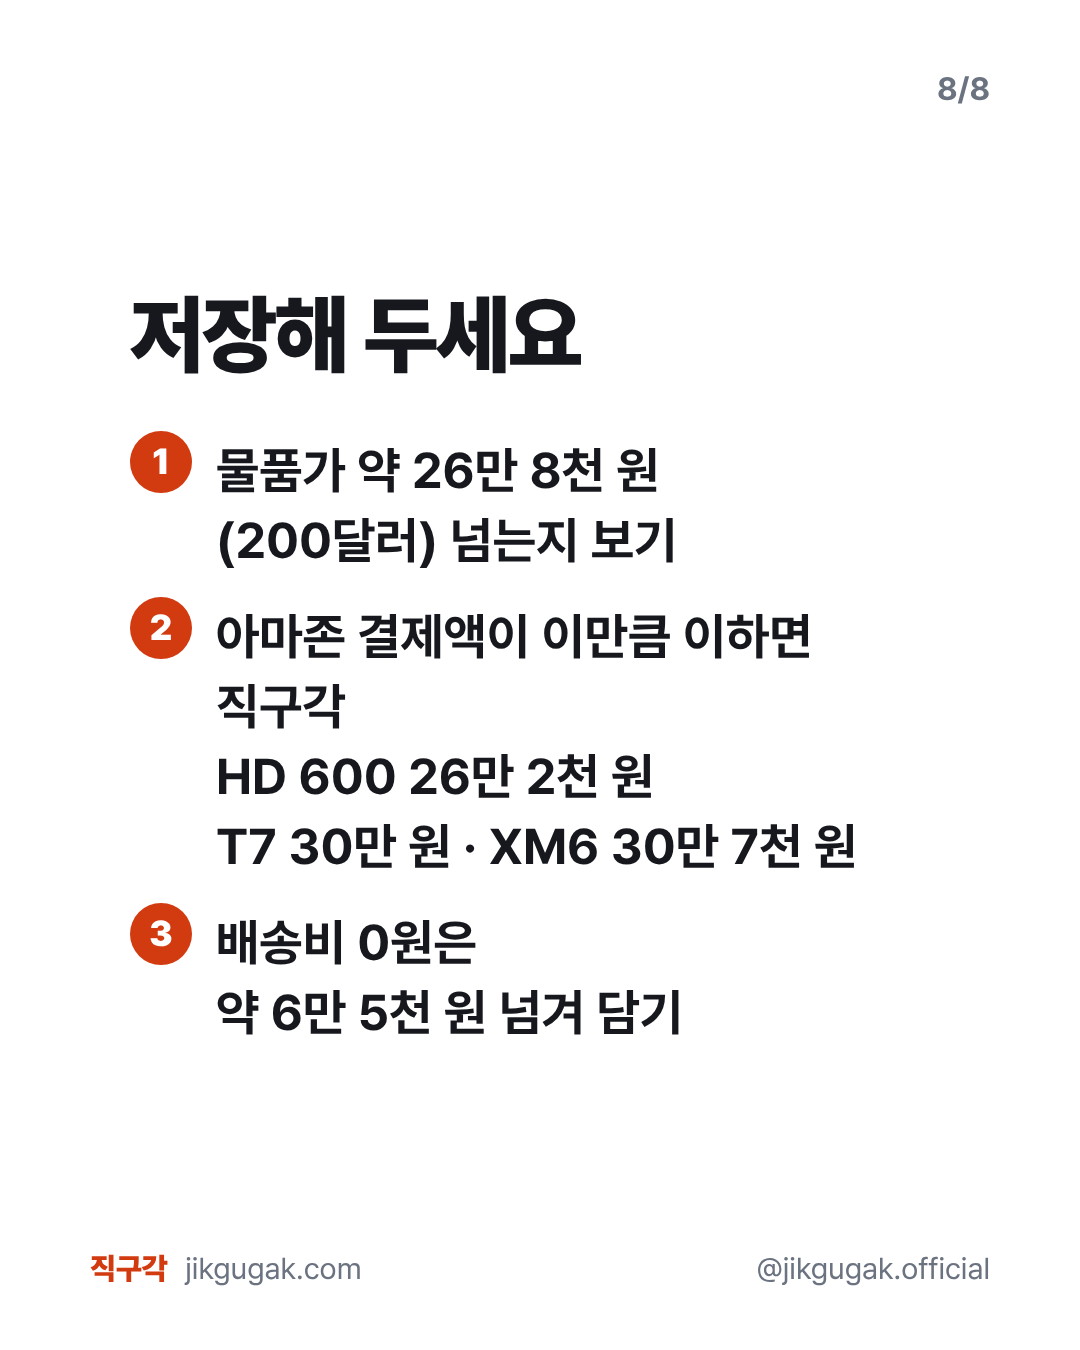
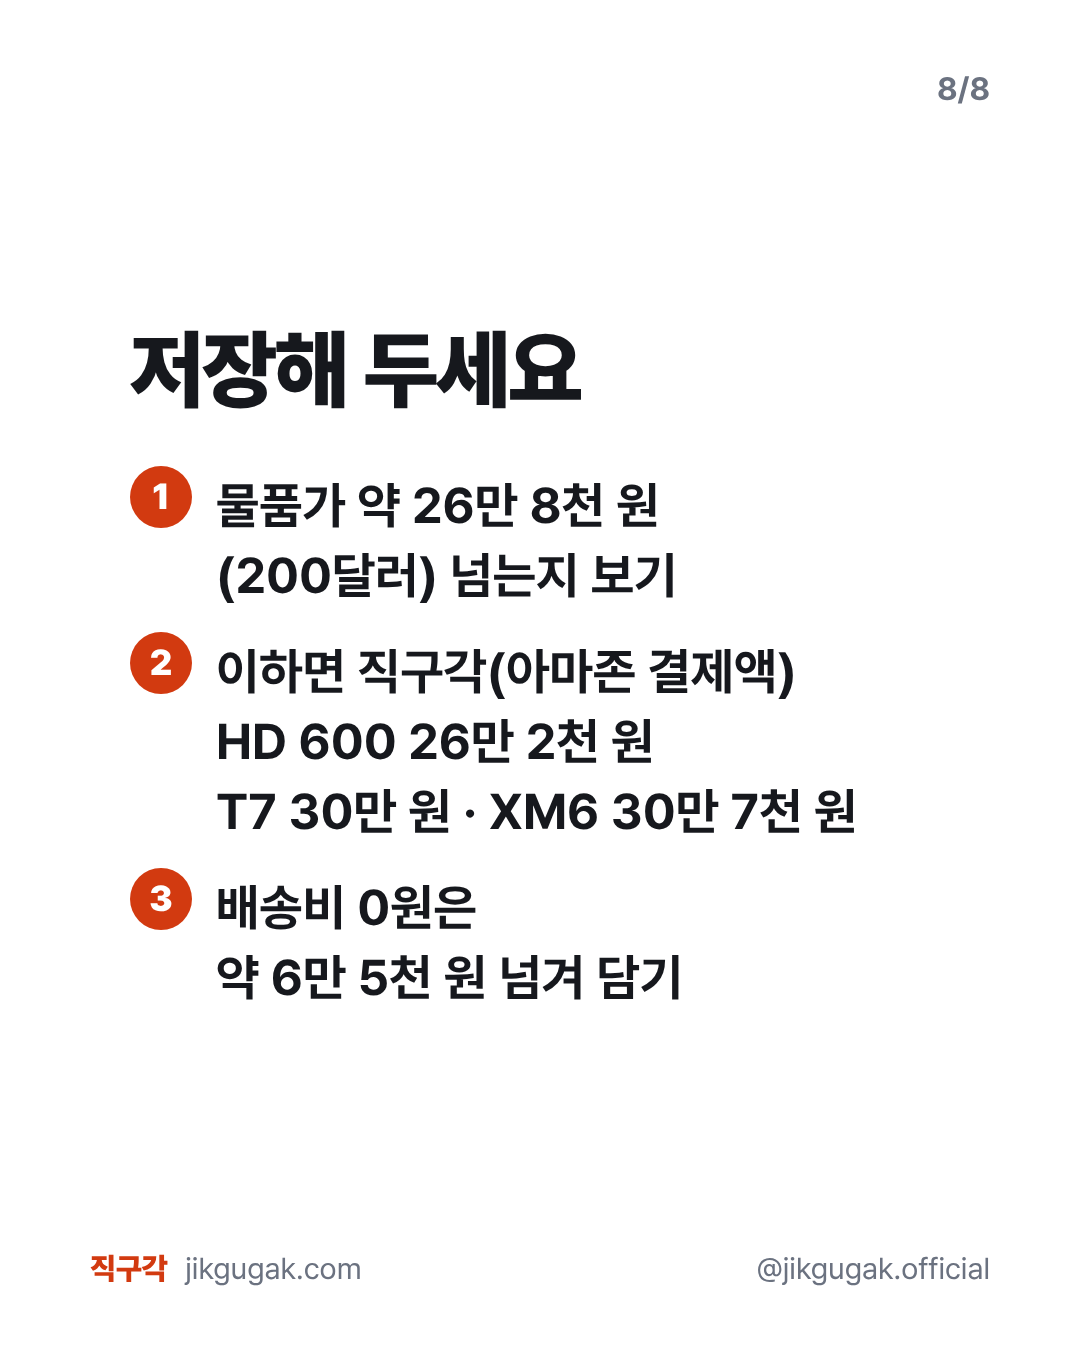
S2-05 마지막 장 줄바꿈
Claude-Session: https://claude.ai/code/session_019Cv1aFf1DMQ9eAvVdGwkdU

Changed region(s): [[0.1222, 0.2178, 0.7944, 0.7778]]

diff --git a/content/2026-10-27-s2-05-bf-200-limit/cards/deck.html b/content/2026-10-27-s2-05-bf-200-limit/cards/deck.html
@@ -80,4 +80,4 @@ h2{font-size:86px;line-height:1.22;font-weight:900;letter-spacing:-2px}
         <div class="rows"><div class="row dim"><span>쿠팡 와우 할인가</span><b>459,000원</b></div><div class="row hi"><span>아마존 결제액이<br>이만큼 이하면 직구각</span><b>30만 7천 원</b></div></div>
         <p class="note">소니 WH-1000XM6, 10.22.<br>관세 8%+부가세 10%까지 넣은 값이에요</p></div><div class="foot"><span class="mark"><b>직구각</b> jikgugak.com</span><span>@jikgugak.official</span></div></section><section class="slide"><div class="num">6/8</div><div class="content"><h2>무료배송 기준 넘겨 담기</h2>
         <div class="rows"><div class="row hi"><span>레고 10280<br>아마존 결제액이<br>이만큼 이하면 직구각</span><b>5만 6천 원</b></div><div class="row "><span>무료배송 기준<br>(적합 상품)</span><b>약 6만 5천 원</b></div></div>
-        <p class="note">10.23 기준. 무료배송 기준(49달러)보다 낮아서<br>이것만 담으면 배송비가 따로 붙어요.<br>다른 상품과 약 6만 5천 원을 넘기면 배송비 없음</p></div><div class="foot"><span class="mark"><b>직구각</b> jikgugak.com</span><span>@jikgugak.official</span></div></section><section class="slide"><div class="num">7/8</div><div class="content"><div class="label">삼성 T7 Shield 1TB</div><h2>결제 화면 최종액</h2><p class="body">아마존은 수입 제세를<br>결제 때 미리 붙여 보여 줘요.<br>그 최종 결제액(원)으로<br>위 기준과 비교해요</p></div><div class="foot"><span class="mark"><b>직구각</b> jikgugak.com</span><span>@jikgugak.official</span></div></section><section class="slide"><div class="num">8/8</div><div class="content"><h2>저장해 두세요</h2><ol class="recap"><li>물품가 약 26만 8천 원<br>(200달러) 넘는지 보기</li><li>아마존 결제액이 이만큼 이하면 직구각<br>HD 600 26만 2천 원<br>T7 30만 원 · XM6 30만 7천 원</li><li>배송비 0원은<br>약 6만 5천 원 넘겨 담기</li></ol></div><div class="foot"><span class="mark"><b>직구각</b> jikgugak.com</span><span>@jikgugak.official</span></div></section></body></html>
+        <p class="note">10.23 기준. 무료배송 기준(49달러)보다 낮아서<br>이것만 담으면 배송비가 따로 붙어요.<br>다른 상품과 약 6만 5천 원을 넘기면 배송비 없음</p></div><div class="foot"><span class="mark"><b>직구각</b> jikgugak.com</span><span>@jikgugak.official</span></div></section><section class="slide"><div class="num">7/8</div><div class="content"><div class="label">삼성 T7 Shield 1TB</div><h2>결제 화면 최종액</h2><p class="body">아마존은 수입 제세를<br>결제 때 미리 붙여 보여 줘요.<br>그 최종 결제액(원)으로<br>위 기준과 비교해요</p></div><div class="foot"><span class="mark"><b>직구각</b> jikgugak.com</span><span>@jikgugak.official</span></div></section><section class="slide"><div class="num">8/8</div><div class="content"><h2>저장해 두세요</h2><ol class="recap"><li>물품가 약 26만 8천 원<br>(200달러) 넘는지 보기</li><li>이하면 직구각(아마존 결제액)<br>HD 600 26만 2천 원<br>T7 30만 원 · XM6 30만 7천 원</li><li>배송비 0원은<br>약 6만 5천 원 넘겨 담기</li></ol></div><div class="foot"><span class="mark"><b>직구각</b> jikgugak.com</span><span>@jikgugak.official</span></div></section></body></html>
